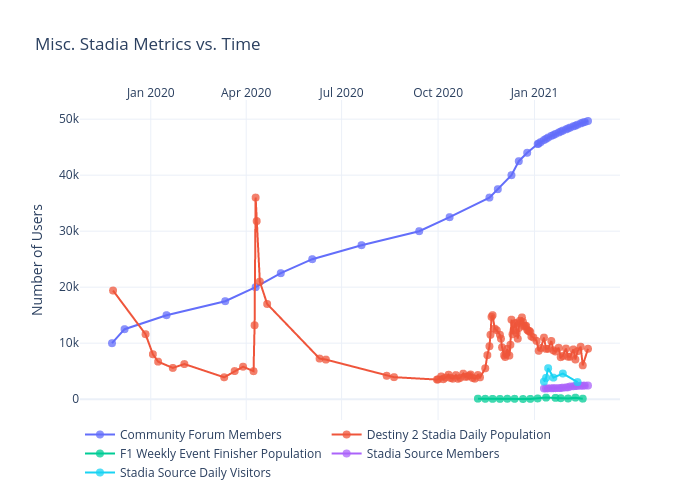
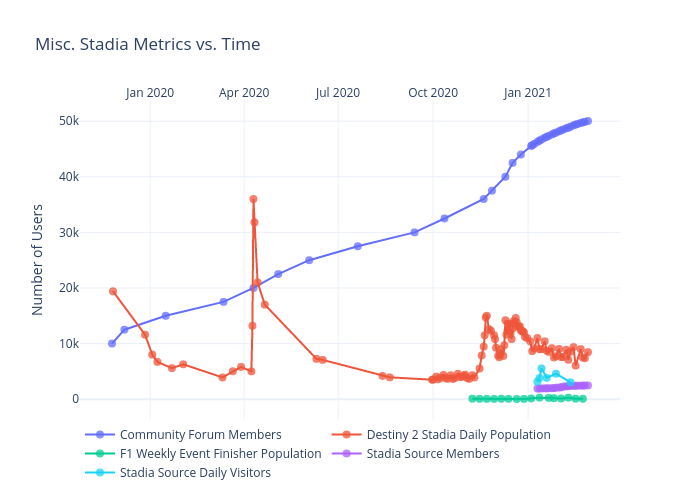
Add files via upload

diff --git a/misc/figure.js b/misc/figure.js
@@ -152,7 +152,9 @@ var figure = {
                 "2021-02-16",
                 "2021-02-18",
                 "2021-02-21",
-                "2021-02-23"
+                "2021-02-23",
+                "2021-02-25",
+                "2021-02-28"
             ],
             "ysrc": "jdeslip:366:8a93ba",
             "y": [
@@ -295,7 +297,10 @@ var figure = {
                 "49243",
                 "49393",
                 "49494",
-                "49675"
+                "49675",
+                "49791",
+                "49881",
+                "50032"
             ],
             "marker": {
                 "size": 8,
@@ -457,7 +462,9 @@ var figure = {
                 "2021-02-16",
                 "2021-02-18",
                 "2021-02-21",
-                "2021-02-23"
+                "2021-02-23",
+                "2021-02-25",
+                "2021-02-28"
             ],
             "ysrc": "jdeslip:366:6c82e3",
             "y": [
@@ -600,7 +607,10 @@ var figure = {
                 "9370",
                 "6040",
                 "",
-                "9000"
+                "9000",
+                "7510",
+                "7370",
+                "8460"
             ],
             "marker": {
                 "size": 8,
@@ -762,7 +772,9 @@ var figure = {
                 "2021-02-16",
                 "2021-02-18",
                 "2021-02-21",
-                "2021-02-23"
+                "2021-02-23",
+                "2021-02-25",
+                "2021-02-28"
             ],
             "ysrc": "jdeslip:366:044d04",
             "y": [
@@ -903,7 +915,10 @@ var figure = {
                 "273",
                 null,
                 null,
-                "94"
+                "94",
+                null,
+                null,
+                "76"
             ],
             "marker": {
                 "size": 8,
@@ -1065,7 +1080,9 @@ var figure = {
                 "2021-02-16",
                 "2021-02-18",
                 "2021-02-21",
-                "2021-02-23"
+                "2021-02-23",
+                "2021-02-25",
+                "2021-02-28"
             ],
             "ysrc": "jdeslip:366:4fe7e6",
             "y": [
@@ -1208,7 +1225,10 @@ var figure = {
                 "2400",
                 "2412",
                 "2427",
-                "2437"
+                "2437",
+                "2448",
+                "2456",
+                "2472"
             ],
             "marker": {
                 "size": 8,
@@ -1370,7 +1390,9 @@ var figure = {
                 "2021-02-16",
                 "2021-02-18",
                 "2021-02-21",
-                "2021-02-23"
+                "2021-02-23",
+                "2021-02-25",
+                "2021-02-28"
             ],
             "ysrc": "jdeslip:366:121b34",
             "y": [
@@ -1528,8 +1550,8 @@ var figure = {
             "side": "top",
             "type": "date",
             "range": [
-                "2019-10-27 22:18:21.7504",
-                "2021-03-21 01:41:38.2496"
+                "2019-10-27 11:55:07.284",
+                "2021-03-28 12:04:52.716"
             ],
             "title": {
                 "text": ""
@@ -1539,8 +1561,8 @@ var figure = {
         "yaxis": {
             "type": "linear",
             "range": [
-                -3520.0545637777145,
-                53227.05456377772
+                -3545.598617909589,
+                53609.59861790959
             ],
             "title": {
                 "text": "Number of Users"
